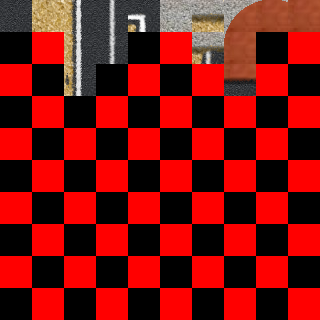
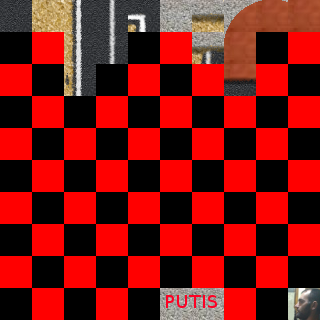
37 Rellenando el mapa
En este episodio al fin eliminaremos los huecos negros de nuestro mapa gracias al nuevo constructor que tenemos para cargar sprites manipulados.

En sprite:
creo propiedades constantes para cada variante de manupulacion de sprites;
creamos los sprites modificados

En cuadro:
añadimos a la coleccion de cuadros los nuevos sprites

En MapaCargado:
anadimos en el metodo generarMapa los casos correspondientes a los nuevos sprites

Changed region(s): [[0.5, 0.875, 0.7188, 1.0], [0.875, 0.875, 1.0, 1.0]]

diff --git a/src/graficos/Sprite.java b/src/graficos/Sprite.java
@@ -13,22 +13,46 @@ public final class Sprite {
     public int[] pixeles;
 
     private HojaSprites hoja;
+    
+    /*Constantes para las diferentes versiones de manipulacion de Sprites*/
+    public static final int CLONAR = 0;
+    public static final int INVERTIR_X = 1;
+    public static final int INVERTIR_Y = 2;
+    public static final int INVERTIR_XY = 3;
+    public static final int ROTAR_90_IZDA = 4;
+    public static final int ROTAR_90_DCHA = 5;
+    public static final int ROTAR_90_IZDA_INVERTIR_Y = 6;
+    public static final int ROTAR_90_DCHA_INVERTIR_Y = 7;
 
     /* Coleccion Sprites */
     public static final Sprite VACIO = new Sprite(32, 0x000000);
-    public static final Sprite ASFALTO = new Sprite(32, 0, 0, 0, HojaSprites.desierto);
-    public static final Sprite ARENA = new Sprite(32, 1, 0, 0, HojaSprites.desierto);
-    public static final Sprite BORDE_CARRETERA = new Sprite(32, 2, 0, 0, HojaSprites.desierto);
-    public static final Sprite CENTRO_CARRETERA = new Sprite(32, 3, 0, 0, HojaSprites.desierto);
-    public static final Sprite ESQUINA_CARRETERA = new Sprite(32, 4, 0, 0, HojaSprites.desierto);
-    public static final Sprite PARED_PIEDRA = new Sprite(32, 5, 0, 0, HojaSprites.desierto);
-    public static final Sprite PARED_PIEDRA_INFERIOR = new Sprite(32, 6, 0, 0, HojaSprites.desierto);
-    public static final Sprite PARED_PIEDRA_CARRETERA = new Sprite(32, 6, 1, 0, HojaSprites.desierto);
-    public static final Sprite PUERTA_SUPERIOR_IZQUIERDA = new Sprite(32, 7, 0, 0, HojaSprites.desierto);
-    public static final Sprite PUERTA_SUPERIOR_CENTRAL = new Sprite(32, 8, 0, 0, HojaSprites.desierto);
-    public static final Sprite PUERTA_INTERMEDIA_IZQUIERDA = new Sprite(32, 7, 1, 0, HojaSprites.desierto);
-    public static final Sprite PUERTA_INFERIOR = new Sprite(32, 7, 2, 0, HojaSprites.desierto);
-    public static final Sprite OXIDO = new Sprite(32, 9, 0, 0, HojaSprites.desierto);
+    public static final Sprite ASFALTO = new Sprite(32, 0, 0, CLONAR, HojaSprites.desierto);
+    public static final Sprite ARENA = new Sprite(32, 1, 0, CLONAR, HojaSprites.desierto);
+    public static final Sprite BORDE_CARRETERA_IZDA = new Sprite(32, 2, 0, CLONAR, HojaSprites.desierto);
+    public static final Sprite BORDE_CARRETERA_DCHA = new Sprite(32, 2, 0, INVERTIR_X, HojaSprites.desierto);
+    public static final Sprite BORDE_CARRETERA_ARRIBA = new Sprite(32, 2, 0, ROTAR_90_DCHA, HojaSprites.desierto);
+    public static final Sprite BORDE_CARRETERA_ABAJO = new Sprite(32, 2, 0, ROTAR_90_DCHA_INVERTIR_Y, HojaSprites.desierto);
+    public static final Sprite CENTRO_CARRETERA_VERTICAL = new Sprite(32, 3, 0, CLONAR, HojaSprites.desierto);
+    public static final Sprite CENTRO_CARRETERA_HORIZONTAL = new Sprite(32, 3, 0, ROTAR_90_DCHA, HojaSprites.desierto);
+    public static final Sprite ESQUINA_CARRETERA_IZDA_ABAJO = new Sprite(32, 4, 0, CLONAR, HojaSprites.desierto);
+    public static final Sprite ESQUINA_CARRETERA_DCHA_ABAJO = new Sprite(32, 4, 0, ROTAR_90_IZDA, HojaSprites.desierto);
+    public static final Sprite ESQUINA_CARRETERA_IZDA_ARRIBA = new Sprite(32, 4, 0, ROTAR_90_DCHA, HojaSprites.desierto);
+    public static final Sprite ESQUINA_CARRETERA_DCHA_ARRIBA = new Sprite(32, 4, 0, INVERTIR_XY, HojaSprites.desierto);
+    public static final Sprite PARED_PIEDRA = new Sprite(32, 5, 0, CLONAR, HojaSprites.desierto);
+    public static final Sprite PARED_PIEDRA_INFERIOR = new Sprite(32, 6, 0, CLONAR, HojaSprites.desierto);
+    public static final Sprite PARED_PIEDRA_CARRETERA_IZDA = new Sprite(32, 6, 1, CLONAR, HojaSprites.desierto);
+    public static final Sprite PARED_PIEDRA_CARRETERA_DCHA = new Sprite(32, 6, 1, INVERTIR_X, HojaSprites.desierto);
+    public static final Sprite PUERTA_SUPERIOR_IZQUIERDA = new Sprite(32, 7, 0, CLONAR, HojaSprites.desierto);
+    public static final Sprite PUERTA_SUPERIOR_DERECHA = new Sprite(32, 7, 0, INVERTIR_X, HojaSprites.desierto);
+    public static final Sprite PUERTA_SUPERIOR_CENTRAL = new Sprite(32, 8, 0, CLONAR, HojaSprites.desierto);
+    public static final Sprite PUERTA_INTERMEDIA_IZQUIERDA = new Sprite(32, 7, 1, CLONAR, HojaSprites.desierto);
+    public static final Sprite PUERTA_INTERMEDIA_DERECHA = new Sprite(32, 7, 1, INVERTIR_X, HojaSprites.desierto);
+    public static final Sprite PUERTA_INFERIOR = new Sprite(32, 7, 2, CLONAR, HojaSprites.desierto);
+    public static final Sprite OXIDO = new Sprite(32, 9, 0, CLONAR, HojaSprites.desierto);
+    
+    public static final Sprite CARTEL_PUTIS_IZDA = new Sprite(32, 5, 9, CLONAR, HojaSprites.desierto);
+    public static final Sprite CARTEL_PUTIS_DCHA = new Sprite(32, 6, 9, CLONAR, HojaSprites.desierto);
+    public static final Sprite XAVIER = new Sprite(32, 9, 9, CLONAR, HojaSprites.desierto);
 
     /* Fin Coleccion */
     private final int lado;
@@ -63,7 +87,7 @@ public final class Sprite {
     }
 
     private void cargarSprite(int version) {
-        if (version == 0) {
+        if (version == CLONAR) {
             cargaNormal();
         } else {
             cargaManipulada(version);
@@ -83,25 +107,25 @@ public final class Sprite {
         int[] pixelesTemporales = iniciarPixelesTemporales();
 
         switch (version) {
-            case 1:
+            case INVERTIR_X:
                 invertirX(pixelesTemporales);
                 break;
-            case 2:
+            case INVERTIR_Y:
                 invertirY(pixelesTemporales);
                 break;
-            case 3:
+            case INVERTIR_XY:
                 invertirXY(pixelesTemporales);
                 break;
-            case 4:
+            case ROTAR_90_DCHA:
                 rotarD90(pixelesTemporales);
                 break;
-            case 5:
+            case ROTAR_90_IZDA:
                 rotarI90(pixelesTemporales);
                 break;
-            case 6:
+            case ROTAR_90_IZDA_INVERTIR_Y:
                 rotarI90InvertirI(pixelesTemporales);
                 break;
-            case 7:
+            case ROTAR_90_DCHA_INVERTIR_Y:
                 rotarD90InvertirY(pixelesTemporales);
                 break;
             default:
@@ -152,7 +176,6 @@ public final class Sprite {
     private void invertirXY(int[] pixelesTemporales) {
         for (int i = 0; i < pixeles.length; i++) {
             pixeles[i] = pixelesTemporales[pixelesTemporales.length -1 -i];
-            i++;
         }    
     }
 

diff --git a/src/mapa/MapaCargado.java b/src/mapa/MapaCargado.java
@@ -17,37 +17,36 @@ import mapa.cuadro.Cuadro;
  * @author diego
  */
 public class MapaCargado extends Mapa {
-    
+
     private int[] pixeles;
-    
+
     public MapaCargado(String ruta) {
         super(ruta);
-        
+
     }
-    
+
     @Override
-    protected void cargarMapa(String ruta){
+    protected void cargarMapa(String ruta) {
         try {
             BufferedImage imagen = ImageIO.read(MapaCargado.class.getResource(ruta));
-            
+
             ancho = imagen.getWidth();
             alto = imagen.getHeight();
-            
+
             cuadrosCatalogo = new Cuadro[ancho * alto];
             pixeles = new int[ancho * alto];
-            
-            imagen.getRGB(0, 0, ancho, alto ,pixeles ,0 ,ancho);
-            
-            
+
+            imagen.getRGB(0, 0, ancho, alto, pixeles, 0, ancho);
+
         } catch (IOException ex) {
             ex.printStackTrace();
         }
     }
-    
+
     @Override
-    protected void generarMapa(){
-        for(int i = 0; i < pixeles.length; i++){
-            switch(pixeles[i]){
+    protected void generarMapa() {
+        for (int i = 0; i < pixeles.length; i++) {
+            switch (pixeles[i]) {
                 case 0xFF000000:
                     cuadrosCatalogo[i] = Cuadro.ASFALTO;
                     continue;
@@ -57,12 +56,34 @@ public class MapaCargado extends Mapa {
                 case 0xFF7d6b07:
                     cuadrosCatalogo[i] = Cuadro.BORDE_CARRETERA;
                     continue;
+                case 0xFFa19346:
+                    cuadrosCatalogo[i] = Cuadro.BORDE_CARRETERA_DERECHA;
+                    continue;
+                case 0xFFa8ba54:
+                    cuadrosCatalogo[i] = Cuadro.BORDE_CARRETERA_ARRIBA;
+                    continue;
+                case 0xFF454f14:
+                    cuadrosCatalogo[i] = Cuadro.BORDE_CARRETERA_ABAJO;
+                    continue;
                 case 0xFF939188:
                     cuadrosCatalogo[i] = Cuadro.CENTRO_CARRETERA;
+                    continue;
+                case 0xFFaaa9a3:
+                    cuadrosCatalogo[i] = Cuadro.CENTRO_CARRETERA_HORIZONTAL;
                     continue;
                 case 0xFF837e64:
                     cuadrosCatalogo[i] = Cuadro.ESQUINA_CARRETERA;
                     continue;
+                case 0xFFd3d462:
+                    cuadrosCatalogo[i] = Cuadro.ESQUINA_CARRETERA_DERECHA;
+                    continue;
+                case 0xFF58590e:
+                    cuadrosCatalogo[i] = Cuadro.ESQUINA_CARRETERA_ARRIBA;
+                    continue;
+                case 0xFFc2c374:
+                    cuadrosCatalogo[i] = Cuadro.ESQUINA_CARRETERA_ARRIBA_DERECHA;
+                    continue;
+                    
                 case 0xFF443f24:
                     cuadrosCatalogo[i] = Cuadro.PARED_PIEDRA;
                     continue;
@@ -71,6 +92,9 @@ public class MapaCargado extends Mapa {
                     continue;
                 case 0xFF425a47:
                     cuadrosCatalogo[i] = Cuadro.PARED_PIEDRA_CARRETERA;
+                    continue;
+                case 0xFF36dc56:
+                    cuadrosCatalogo[i] = Cuadro.PARED_PIEDRA_CARRETERA_INVERTIDA_X;
                     continue;
                 case 0xFFec243c:
                     cuadrosCatalogo[i] = Cuadro.OXIDO;
@@ -81,18 +105,29 @@ public class MapaCargado extends Mapa {
                 case 0xFF765257:
                     cuadrosCatalogo[i] = Cuadro.PUERTA_SUPERIOR_IZQUIERDA;
                     continue;
+                case 0xFF683a40:
+                    cuadrosCatalogo[i] = Cuadro.PUERTA_SUPERIOR_DERECHA;
+                    continue;
                 case 0xFFc63042:
                     cuadrosCatalogo[i] = Cuadro.PUERTA_INTERMEDIA_IZQUIERDA;
                     continue;
+                case 0xFF772055:
+                    cuadrosCatalogo[i] = Cuadro.PUERTA_INTERMEDIA_DERECHA;
+                    continue;
                 case 0xFFa14653:
                     cuadrosCatalogo[i] = Cuadro.PUERTA_INFERIOR;
-                    continue;                
+                    continue;
+                case 0xFF00ccff:
+                    cuadrosCatalogo[i] = Cuadro.CARTEL_PUTIS_IZDA;
+                    continue;
+                case 0xFF6edcf7:
+                    cuadrosCatalogo[i] = Cuadro.CARTEL_PUTIS_DCHA;
+                    continue;
                 default:
-                   cuadrosCatalogo[i] = Cuadro.VACIO;
-                   
+                    cuadrosCatalogo[i] = Cuadro.VACIO;
+
             }
         }
     }
-    
-    
+
 }

diff --git a/src/mapa/cuadro/Cuadro.java b/src/mapa/cuadro/Cuadro.java
@@ -5,46 +5,60 @@ package mapa.cuadro;
 Añadimos un espacio para la coleccion de cuadros
 Creamos la propiedad estatica Cuadro con una instancia de CuadroAlfalto (cuadro es abstracto y no se puede instanciar)
 
-*/
+ */
 import graficos.Pantalla;
 import graficos.Sprite;
 
 public class Cuadro {
+
     public static int LADO = 32;
-    
+
     public int x;
     public int y;
-    
-    
+
     public Sprite sprite;
-    
+
     /*Coleccion cuadros*/
     public static final Cuadro VACIO = new Cuadro(Sprite.VACIO);
     public static final Cuadro ASFALTO = new Cuadro(Sprite.ASFALTO);
     public static final Cuadro ARENA = new Cuadro(Sprite.ARENA);
-    public static final Cuadro BORDE_CARRETERA = new Cuadro(Sprite.BORDE_CARRETERA);
-    public static final Cuadro CENTRO_CARRETERA = new Cuadro(Sprite.CENTRO_CARRETERA);
-    public static final Cuadro ESQUINA_CARRETERA = new Cuadro(Sprite.ESQUINA_CARRETERA);
+    public static final Cuadro BORDE_CARRETERA = new Cuadro(Sprite.BORDE_CARRETERA_IZDA);
+    public static final Cuadro BORDE_CARRETERA_DERECHA = new Cuadro(Sprite.BORDE_CARRETERA_DCHA);
+    public static final Cuadro BORDE_CARRETERA_ARRIBA = new Cuadro(Sprite.BORDE_CARRETERA_ARRIBA);
+    public static final Cuadro BORDE_CARRETERA_ABAJO = new Cuadro(Sprite.BORDE_CARRETERA_ABAJO);
+    public static final Cuadro CENTRO_CARRETERA = new Cuadro(Sprite.CENTRO_CARRETERA_VERTICAL);
+    public static final Cuadro CENTRO_CARRETERA_HORIZONTAL = new Cuadro(Sprite.CENTRO_CARRETERA_HORIZONTAL);
+    public static final Cuadro ESQUINA_CARRETERA = new Cuadro(Sprite.ESQUINA_CARRETERA_IZDA_ABAJO);
+    public static final Cuadro ESQUINA_CARRETERA_DERECHA = new Cuadro(Sprite.ESQUINA_CARRETERA_DCHA_ABAJO);
+    public static final Cuadro ESQUINA_CARRETERA_ARRIBA = new Cuadro(Sprite.ESQUINA_CARRETERA_IZDA_ARRIBA);
+    public static final Cuadro ESQUINA_CARRETERA_ARRIBA_DERECHA = new Cuadro(Sprite.ESQUINA_CARRETERA_DCHA_ARRIBA);
     public static final Cuadro PARED_PIEDRA = new Cuadro(Sprite.PARED_PIEDRA);
     public static final Cuadro PARED_PIEDRA_INFERIOR = new Cuadro(Sprite.PARED_PIEDRA_INFERIOR);
-    public static final Cuadro PARED_PIEDRA_CARRETERA = new Cuadro(Sprite.PARED_PIEDRA_CARRETERA);
+    public static final Cuadro PARED_PIEDRA_CARRETERA = new Cuadro(Sprite.PARED_PIEDRA_CARRETERA_IZDA);
+    public static final Cuadro PARED_PIEDRA_CARRETERA_INVERTIDA_X = new Cuadro(Sprite.PARED_PIEDRA_CARRETERA_DCHA);
     public static final Cuadro PUERTA_SUPERIOR_IZQUIERDA = new Cuadro(Sprite.PUERTA_SUPERIOR_IZQUIERDA);
+    public static final Cuadro PUERTA_SUPERIOR_DERECHA = new Cuadro(Sprite.PUERTA_SUPERIOR_DERECHA);
     public static final Cuadro PUERTA_SUPERIOR_CENTRAL = new Cuadro(Sprite.PUERTA_SUPERIOR_CENTRAL);
     public static final Cuadro PUERTA_INTERMEDIA_IZQUIERDA = new Cuadro(Sprite.PUERTA_INTERMEDIA_IZQUIERDA);
+    public static final Cuadro PUERTA_INTERMEDIA_DERECHA = new Cuadro(Sprite.PUERTA_INTERMEDIA_DERECHA);
     public static final Cuadro OXIDO = new Cuadro(Sprite.OXIDO);
     public static final Cuadro PUERTA_INFERIOR = new Cuadro(Sprite.PUERTA_INFERIOR);
     
+    public static final Cuadro CARTEL_PUTIS_IZDA = new Cuadro(Sprite.CARTEL_PUTIS_IZDA);
+    public static final Cuadro CARTEL_PUTIS_DCHA = new Cuadro(Sprite.CARTEL_PUTIS_DCHA);
+    public static final Cuadro XAVIER = new Cuadro(Sprite.XAVIER);
+
     /*fin coleccion cuadros*/
-    
-    public Cuadro(Sprite sprite){
+    public Cuadro(Sprite sprite) {
         this.sprite = sprite;
-        
+
     }
 
-    public void mostrar(int x,int y, Pantalla pantalla){
+    public void mostrar(int x, int y, Pantalla pantalla) {
         pantalla.mostrarCuadro(x << 5, y << 5, this);
-    }  
-    public boolean solido(){
+    }
+
+    public boolean solido() {
         return false;
     }
 }
